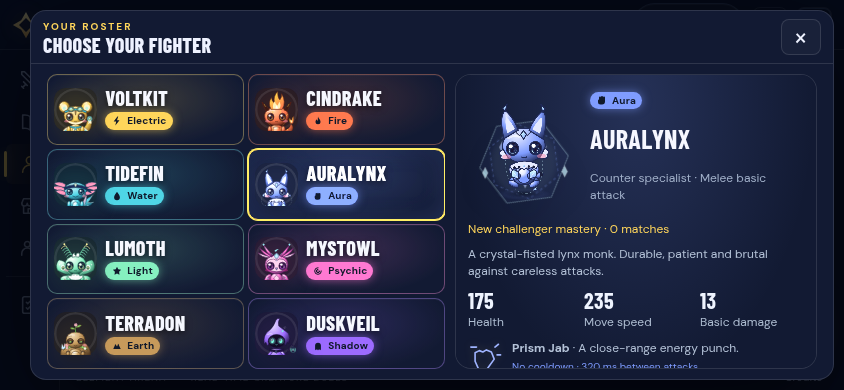
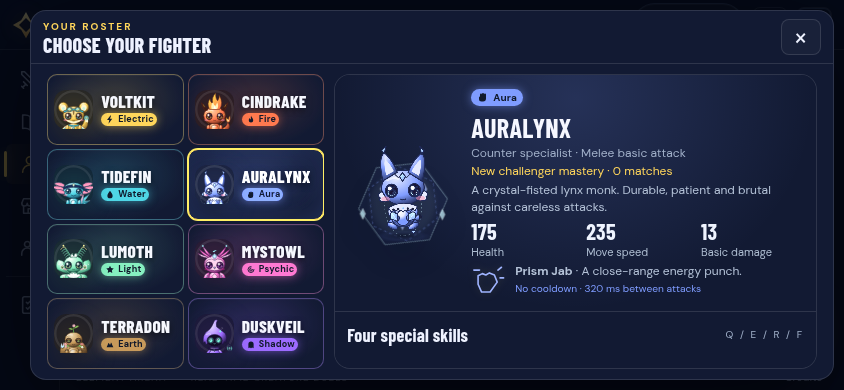
Give fighter details more room across screen sizes

Changed region(s): [[0.0616, 0.1846, 0.9242, 0.9538], [0.4929, 0.1846, 0.5545, 0.2154], [0.2156, 0.9231, 0.2464, 0.9538]]

diff --git a/apps/client/src/style.css b/apps/client/src/style.css
@@ -19997,6 +19997,53 @@ body.battle-active .ability.ult-ready,
 }
 
 /* All fighters stay visible; only the selected fighter animates in the detail pane. */
+#menu .selection-layout,
+body.lobby-active #menu .roster-panel {
+  grid-template-columns: clamp(300px, 36%, 460px) minmax(0, 1fr);
+}
+.fighter-preview-slot {
+  container-name: fighter-information;
+}
+.fighter-preview-slot .selected-info,
+.fighter-preview-slot .basic-text {
+  min-width: 0;
+}
+.fighter-preview-slot .fighter-stats {
+  grid-template-columns: repeat(3, minmax(0, 1fr));
+}
+@container fighter-information (min-width: 560px) {
+  #menu .fighter-preview-slot .selected-art > :is(svg, .creature-portrait) {
+    height: 200px;
+    max-height: 200px;
+  }
+  .fighter-preview-slot .selected-info p {
+    margin: 6px 0;
+  }
+  .fighter-preview-slot .fighter-stats {
+    margin: 8px 0;
+  }
+  .fighter-preview-slot .preview-skills {
+    grid-template-columns: repeat(2, minmax(0, 1fr));
+    gap: 10px;
+  }
+  .fighter-preview-slot .preview-skills > div {
+    grid-template-columns: 24px 24px minmax(0, 1fr) 30px;
+    align-items: start;
+    gap: 8px;
+    padding: 10px;
+    border: 1px solid var(--line);
+    border-radius: var(--radius-sm);
+  }
+  .fighter-preview-slot .preview-skills > div > kbd {
+    width: 24px;
+    height: 28px;
+    font-size: 11px;
+  }
+  .fighter-preview-slot .preview-skills > div > .skill-icon {
+    width: 24px;
+    height: 24px;
+  }
+}
 #menu .roster-panel:has(.selection-layout) {
   grid-template-rows: minmax(0, 1fr);
   gap: 0;
@@ -20110,6 +20157,10 @@ body.lobby-active #menu .fighter-preview-slot {
   display: none;
 }
 @media (max-width: 1000px) and (orientation: landscape) {
+  #menu .selection-layout {
+    grid-template-columns: clamp(188px, 36%, 320px) minmax(0, 1fr);
+    gap: 10px;
+  }
   #menu .selection-layout .showcase-roster {
     gap: 4px;
     padding: 0;
@@ -20304,12 +20355,35 @@ body.lobby-active #menu .fighter-preview-slot {
 /* Only genuinely narrow tiles need small type; roomy phone drawers scale up. */
 @container fighter-tile (max-width: 140px) {
   #menu .selection-layout .showcase-card .card-head strong {
-    font-size: clamp(13px, 12cqi, 18px);
+    font-size: clamp(13px, 14cqi, 18px);
   }
   #menu .selection-layout .showcase-card .element-pill {
     font-size: 9px;
     padding: 1px 3px;
     gap: 2px;
+  }
+}
+@container fighter-tile (max-width: 90px) {
+  #menu .selection-layout .showcase-card .card-art {
+    width: min(28cqi, 76cqb, 112px);
+    height: min(28cqi, 76cqb, 112px);
+  }
+}
+@media (max-width: 1000px) and (orientation: landscape) {
+  @container fighter-information (min-width: 380px) {
+    #menu .fighter-preview-slot .selected-fighter {
+      grid-template-columns: 112px minmax(0, 1fr);
+      gap: 12px;
+    }
+    #menu .fighter-preview-slot .selected-info {
+      display: block;
+      grid-column: 2;
+      grid-row: 1;
+    }
+    #menu .fighter-preview-slot .selected-art {
+      grid-row: 1;
+      align-self: center;
+    }
   }
 }
 @media (max-width: 740px) and (max-height: 360px) and (orientation: landscape) {
@@ -20319,14 +20393,14 @@ body.lobby-active #menu .fighter-preview-slot {
   }
 }
 
-/* A room disclosure leaves both fighter panels usable on the smallest phones. */
-@media (max-width: 740px) and (orientation: landscape) {
+/* Phone room controls leave the main width for fighter information. */
+@media (max-width: 1000px) and (orientation: landscape) {
   body.lobby-active #menu .lobby-layout {
     position: relative;
     grid-template-columns: minmax(0, 1fr);
   }
   body.lobby-active #menu .roster-panel {
-    grid-template-columns: minmax(0, 1fr) minmax(200px, 1fr);
+    grid-template-columns: clamp(188px, 36%, 320px) minmax(0, 1fr);
     column-gap: 10px;
   }
   body.lobby-active #menu .selection-layout {

diff --git a/apps/client/src/lobby-layout.ts b/apps/client/src/lobby-layout.ts
@@ -2,7 +2,7 @@ import { iconLabel } from "./menu-icons";
 
 let releaseRoomDrawer: (() => void) | undefined;
 
-/** On narrow phones the room stays reachable without squeezing fighter details. */
+/** Phone room controls stay reachable without squeezing fighter details. */
 function placeRoomDrawer(panel: HTMLElement) {
   if (panel.closest(".lobby-room-drawer")) return;
   const layout = panel.parentElement;
@@ -20,7 +20,9 @@ function placeRoomDrawer(panel: HTMLElement) {
   summary.setAttribute("aria-controls", panel.id);
   drawer.append(summary);
   panel.before(drawer);
-  const compact = matchMedia("(max-width: 740px) and (orientation: landscape)");
+  const compact = matchMedia(
+    "(max-width: 1000px) and (orientation: landscape)",
+  );
   const events = new AbortController();
   const close = () => {
     drawer.open = false;

diff --git a/docs/redesign-review.md b/docs/redesign-review.md
@@ -163,3 +163,14 @@ Updated previews: [larger desktop avatars and names](redesign-roster-compact.png
 - Typecheck, all 854 tests, the client production build and PWA verification pass. Changed files pass Prettier; the full formatting check retains 75 existing failures in untouched files. No server, shared package, database, networking or gameplay changes.
 
 Updated previews: [desktop animated fighter details](redesign-roster-compact.png), [landscape-phone fighter details](redesign-mobile-avatars.png), [private lobby](redesign-mobile-lobby.png).
+
+## Fighter selection review — give information more width
+
+- Narrowed the two-column fighter grid to approximately 36% of the selection area, with width limits that keep all eight avatar/name cards readable and visible. The detail panel grows from approximately 546px to 746px at 1280×720; at 1920×1080 the roster is capped at 460px so the information can use the extra width.
+- Wider detail panels show skills in a two-column grid, with aligned key labels, icons, descriptions and cooldowns. Tightened overview spacing and portrait height in these panels. Stats use columns that can shrink safely and descriptions wrap within their pane; all existing text, skills, combo and shared-control instructions remain reachable.
+- Landscape phones use a smaller bounded roster and a wider detail pane. Where the pane has enough width, the portrait sits beside the entire introduction/properties group. At 844×390, the home detail pane grows from roughly 360px to 483px; the private-lobby pane grows from roughly 272px to 517px. Very narrow phones retain the stacked information layout inside the right pane.
+- Extended the existing “Room & ready” disclosure to all compact landscape layouts up to 1000px, freeing the width previously reserved for a third column. The pop-up keeps room information scrollable and its actions pinned. Desktop retains the room sidebar; resizing, keyboard, controller and touch keep every control reachable.
+- Reviewed card contents, avatar/name alignment and safe areas at nine desktop/landscape sizes. Additional browser checks cover all eight animated selections and duel, teams, FFA and raid rooms at 1280×720, 1920×1080, 844×390 and 568×320, plus skill icon/text bounds, caption/canvas alignment, all Mythical stage-three skins, rapid selection, room controls, controller scrolling and reduced motion.
+- Typecheck, all 854 tests, client build and PWA verification pass. Changed files pass Prettier; the full formatting check retains the 75 pre-existing failures in untouched files. Only client presentation and review documentation changed.
+
+Updated previews: [wider desktop information panel](redesign-roster-compact.png), [landscape phone selection](redesign-mobile-avatars.png), [landscape private lobby](redesign-mobile-lobby.png).
